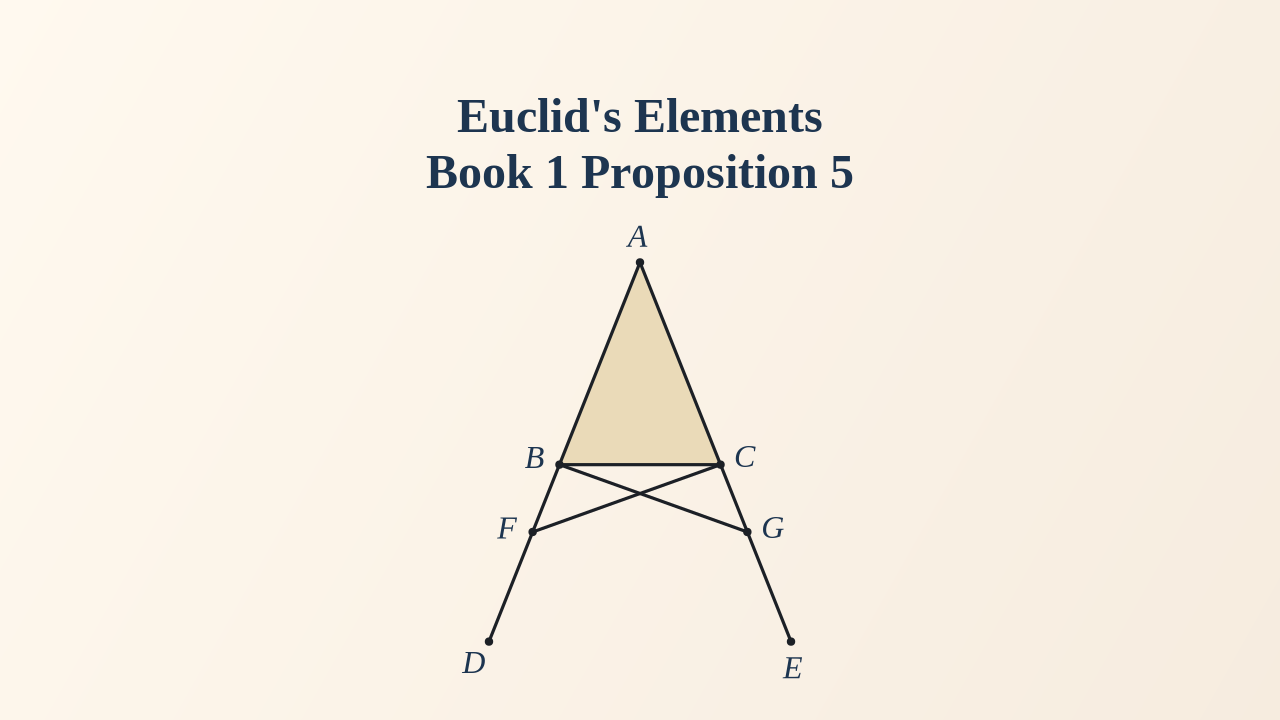
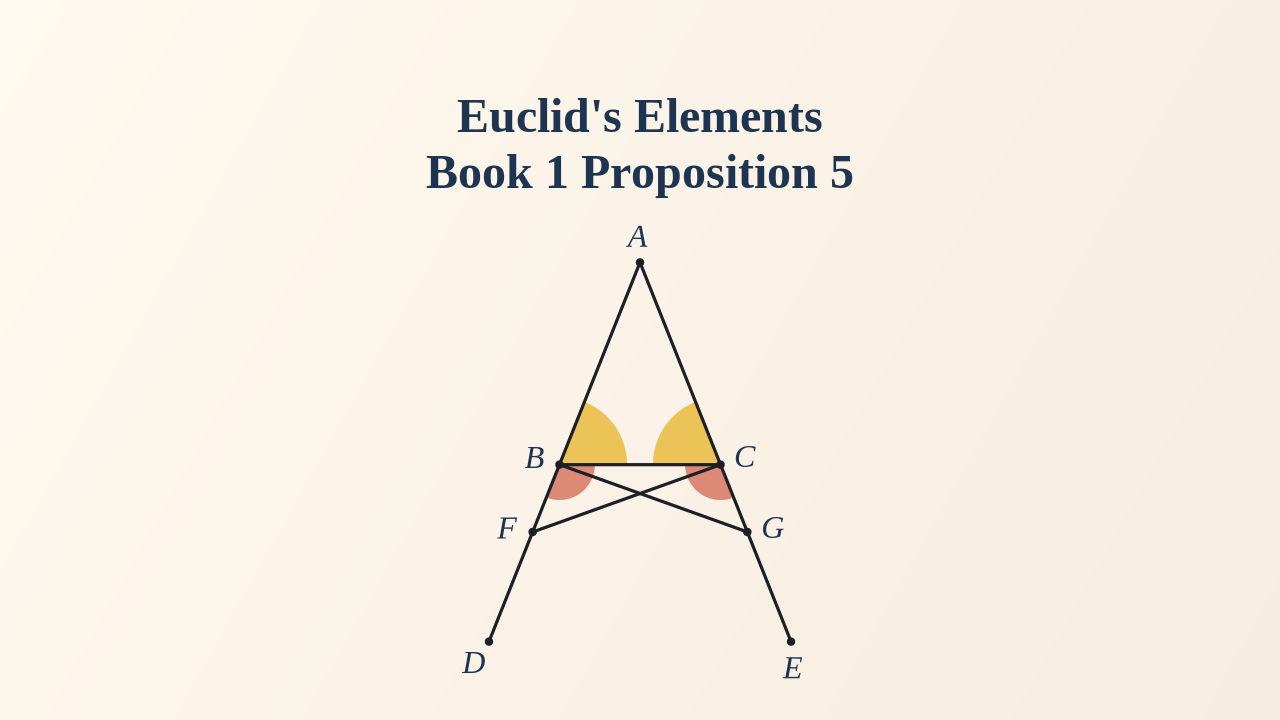
Highlight the equal angles on the I.5 thumbnail. (#57)
Keep the whole plate and mark the two equal pairs as pies: yellow and larger at the base, rose and smaller under it.

Changed region(s): [[0.4062, 0.3972, 0.5938, 0.7028]]

diff --git a/scripts/youtube_book1_thumbs.py b/scripts/youtube_book1_thumbs.py
@@ -13,7 +13,16 @@ equal lines the enunciation names, and leave the construction ink at the
 same weight as I.1. Dimming that ink to push the subject made the plate
 look unfinished next to the first card. The wash gold is too close to the
 cream to read as a line, so those lines take a brick that sits with the
-navy type. Labels stay navy, the color every other card uses.
+navy type. I.5 keeps the whole plate — F, G, FC, GB and the rest — and
+adds a highlight only. The subject is the angles, not the triangle, so the
+mark is a pie in each corner the enunciation names: ∠ABC and ∠ACB at the
+base, ∠CBD and ∠BCE under it. The two equal pairs are two marks — yellow
+and larger at the base, rose and smaller under it — so a pair reads as one
+set and the other pair as the other. Both hues sit with the plate: the
+yellow is the angle highlight, the rose is the brick of the line cards
+lifted so it still reads as a wash. A pie fills the angle; it does not
+replace a stroke or a letter. Labels stay navy, the color every other card
+uses.
 """
 
 from __future__ import annotations
@@ -38,6 +47,12 @@ GOLD = (212, 184, 122)
 BRICK = (154, 62, 46)
 INK = (28, 32, 38)
 WASH = (232, 214, 176)
+# Angle subject. A filled corner, not an arc. Yellow reads as a highlight
+# on the plate; the wash gold is too close to the cream to mark an angle.
+# The second set is a coral lifted from the brick. A cool accent, or the
+# brick left dark, fights the cream.
+PIE = (234, 188, 64)
+PIE_ALT = (216, 122, 100)
 LETTER_R = 0.82  # plate::LETTER_R, em of the letter type
 
 # Subject regions, vertex order around the boundary. Two regions: warm, then gold,
@@ -45,7 +60,6 @@ LETTER_R = 0.82  # plate::LETTER_R, em of the letter type
 WASHES: dict[int, list[tuple[str, ...]]] = {
     1: [("A", "B", "C")],
     4: [("A", "B", "C"), ("D", "E", "F")],
-    5: [("A", "B", "C")],
     6: [("A", "B", "C")],
     7: [("A", "C", "B"), ("A", "D", "B")],
     8: [("A", "B", "C"), ("D", "E", "F")],
@@ -76,6 +90,23 @@ LINES: dict[int, list[tuple[str, str]]] = {
     2: [("A", "L"), ("B", "C")],
     # AE cut from the greater AB, equal to the lesser C.
     3: [("A", "E"), ("Cleft", "Cright")],
+}
+
+# Equal angles share a mark: (arm, vertex, arm), grouped by equality.
+# I.5: ∠ABC = ∠ACB at the base, then ∠CBD = ∠BCE under it. Each group is
+# one set: same color, same radius. The next group is the other set.
+ANGLES: dict[int, list[list[tuple[str, str, str]]]] = {
+    5: [
+        [("A", "B", "C"), ("A", "C", "B")],
+        [("C", "B", "D"), ("B", "C", "E")],
+    ],
+}
+
+# Per equality group, in ANGLES order: fill, then radius as a fraction of
+# the shorter arm. Same within a pair; different between pairs, so the two
+# sets stay distinct at thumbnail size. The larger pie is drawn first.
+ANGLE_MARK: dict[int, list[tuple[tuple[int, int, int], float]]] = {
+    5: [(PIE, 0.42), (PIE_ALT, 0.22)],
 }
 
 PLACE_DEG = {
@@ -600,7 +631,35 @@ def arc_points(a: V2, b: V2, via: V2, n: int = 48) -> list[tuple[float, float]]:
     ]
 
 
+def angle_wedge(scene: Scene, arm: str, vertex: str, other: str, radius: float) -> list[V2]:
+    """Sector of ∠(arm, vertex, other), radius in plate units.
+
+    The lesser turn is the angle the figure draws. A reflex would fill the
+    outside and read as the triangle again.
+    """
+    v = scene.at(vertex)
+    a = math.atan2((scene.at(arm).y - v.y), (scene.at(arm).x - v.x))
+    b = math.atan2((scene.at(other).y - v.y), (scene.at(other).x - v.x))
+    sweep = (b - a + math.pi) % math.tau - math.pi
+    n = max(12, int(abs(sweep) / math.tau * 64))
+    pts = [v]
+    for i in range(n + 1):
+        t = a + sweep * i / n
+        pts.append(V2(v.x + radius * math.cos(t), v.y + radius * math.sin(t)))
+    return pts
+
+
+def prepare(n: int, scene: Scene) -> None:
+    """Check the angle marks. The plate itself is not edited."""
+    for group in ANGLES.get(n, []):
+        for arm, vertex, other in group:
+            for name in (arm, vertex, other):
+                if name not in scene.pts:
+                    raise SystemExit(f"I.{n}: angle {arm}{vertex}{other} missing {name}")
+
+
 def render(n: int, scene: Scene, out: Path) -> None:
+    prepare(n, scene)
     for poly in WASHES.get(n, []):
         for name in poly:
             if name not in scene.pts:
@@ -693,6 +752,30 @@ def render(n: int, scene: Scene, out: Path) -> None:
             cr.set_source_rgba(*rgb(GOLD), 0.28)
         poly(names)
         cr.fill()
+
+    def angle_radius(arm: str, vertex: str, other: str, reach: float) -> float:
+        vv = scene.at(vertex)
+        span = min(vv.dist(scene.at(arm)), vv.dist(scene.at(other)))
+        return reach * span
+
+    # Pies under the ink, so the plate's strokes and letters stay as they
+    # are. Each equality group is one color and one radius; the next group
+    # is the other set. Larger first, so a smaller pie is not covered.
+    marks = ANGLE_MARK.get(n, [])
+    groups = ANGLES.get(n, [])
+    if len(marks) != len(groups):
+        raise SystemExit(f"I.{n}: angle mark count {len(marks)} != groups {len(groups)}")
+    order = sorted(range(len(groups)), key=lambda i: marks[i][1], reverse=True)
+    for i in order:
+        color, reach = marks[i]
+        cr.set_source_rgba(*rgb(color), 0.86)
+        for arm, vertex, other in groups[i]:
+            pts = angle_wedge(scene, arm, vertex, other, angle_radius(arm, vertex, other, reach))
+            cr.move_to(*pt_of(pts[0]))
+            for p in pts[1:]:
+                cr.line_to(*pt_of(p))
+            cr.close_path()
+            cr.fill()
 
     def clip_circles() -> None:
         if not scene.clip_box:
